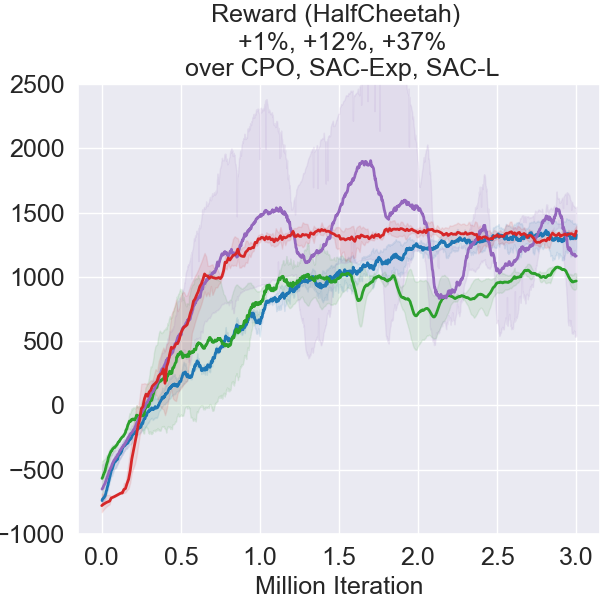
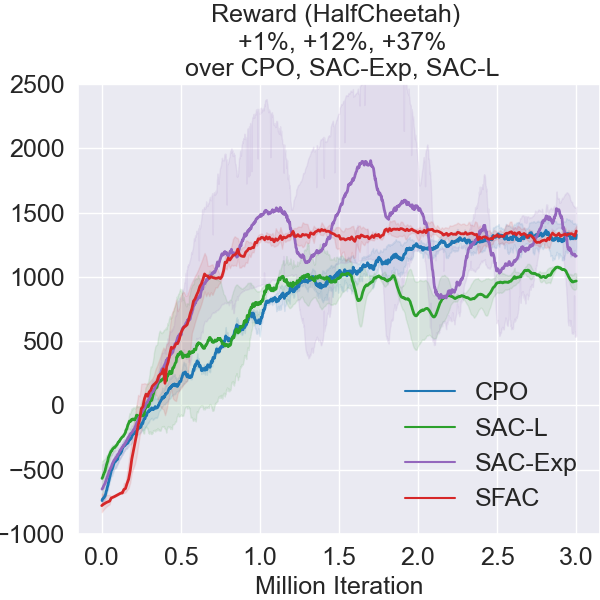
add cn plot code

diff --git a/data_process/lineplot_mujoco_raw_spd_cn.py b/data_process/lineplot_mujoco_raw_spd_cn.py
@@ -13,27 +13,24 @@ from tensorboard.backend.event_processing import event_accumulator
 import json
 
 sns.set(style="darkgrid")
-SMOOTHFACTOR = 1 # 1 3 7 halfcheetah
-SMOOTHFACTOR2 = 10
-SMOOTHFACTOR3 = 20
+SMOOTHFACTOR = 0.8 # 1 3 7 halfcheetah
+SMOOTHFACTOR2 = 20
+SMOOTHFACTOR3 = 30
 DIV_LINE_WIDTH = 50
 txt_store_alg_list = ['CPO', 'PPO-Lagrangian', 'TRPO-Lagrangian']
 base_dict = dict(HalfCheetah=1.5, Ant=1.5, Walker2d=1.5)
 fsac_final_list = ['conti100HalfCheetah-2021-05-13-20-58-14-s4', 'conti100HalfCheetah-2021-05-14-00-33-41-s2'
                    ,'conti240HalfCheetah-2021-05-14-22-26-58-s3']
 ylim_dict = {'episode_return':{'HalfCheetah': [-1000,2500]},'episode_cost':{}}
-fsac_bias = {'episode_return':{'Ant':-1000,'HalfCheetah':-750,},'episode_cost':{'Ant':0.675,'HalfCheetah':67.5,}}
+fsac_bias = {'episode_return':{'Ant':-1000,'HalfCheetah':0,'Walker2d':0,},'episode_cost':{'Ant':0.675,'HalfCheetah':0,'Walker2d':0,}}
 
 
 def help_func():
     tag2plot = ['episode_return']
-    alg_list = ['CPO','PPO-Lagrangian','TRPO-Lagrangian','FSAC',  ] # 'FSAC', 'CPO', 'SAC','SAC-Lagrangian',
-    lbs = ['CPO','SAC-L','SAC-Exp','SFAC',] #  'FAC', 'CPO', 'SAC','SAC-Lagrangian',
-    task = ['HalfCheetah']
-    #todo: CarGoal: sac
-    #todo: CarButton: sac choose better fac
-    # todo: CarPush: ???
-    palette = "dark"
+    alg_list = ['FSAC', 'CPO','PPO-Lagrangian','TRPO-Lagrangian', ] # 'FSAC', 'CPO', 'SAC','SAC-Lagrangian',
+    lbs = ['SFAC', 'CPO','SAC-L','SAC-Exp',] #  'FAC', 'CPO', 'SAC','SAC-Lagrangian',
+    task = ['Ant']
+    palette = "bright"
     goal_perf_list = [-200, -100, -50, -30, -20, -10, -5]
     dir_str = '../results/{}/{}/data2plot' # .format(algo name) # /data2plot
     return tag2plot, alg_list, task, lbs, palette, goal_perf_list, dir_str
@@ -72,6 +69,8 @@ def plot_eval_results_of_all_alg_n_runs(dirs_dict_for_plot=None):
                                 step = int(event.step + 1000000)
                             elif dir.startswith('conti40'):
                                 step = int(event.step + 400000)
+                            elif dir.startswith('conti220'):
+                                step = int(event.step + 2200000)
                             elif dir.startswith('conti240'):
                                 step = int(event.step + 2400000)
                             elif dir.startswith('short'):
@@ -89,16 +88,37 @@ def plot_eval_results_of_all_alg_n_runs(dirs_dict_for_plot=None):
                                     continue
                                 if dir.startswith('init240') and step > 2400000:
                                     continue
+                                if dir.startswith('init220') and step > 2200000:
+                                    continue
                                 for v in event.summary.value:
                                     t = tf.make_ndarray(v.tensor)
                                     for tag in tag2plot:
                                         if dir.startswith('velo') and tag == 'episode_cost' and v.tag[11:]=='episode_velo_mean':
                                             data_in_one_run_of_one_alg[tag].append(
-                                                ((1 - SMOOTHFACTOR) * data_in_one_run_of_one_alg[tag][
-                                                    -1] + SMOOTHFACTOR * float(t)) / 1.69 * 149.0
-                                                if data_in_one_run_of_one_alg[tag] else float(t)/ 1.69 * 149.0)
+                                                (1 - SMOOTHFACTOR) * data_in_one_run_of_one_alg[tag][
+                                                    -1] + SMOOTHFACTOR * float(t) / 1.69 * 1.490
+                                                if data_in_one_run_of_one_alg[tag] else float(t)/ 1.69 * 1.490)
                                             data_in_one_run_of_one_alg['iteration'].append(int(step))
-                                        elif tag ==  v.tag[11:] :
+                                        elif dir.startswith('over') and tag == 'episode_cost' and v.tag[11:]=='episode_velo_mean':
+                                            data_in_one_run_of_one_alg[tag].append(
+                                                (1 - SMOOTHFACTOR) * data_in_one_run_of_one_alg[tag][
+                                                    -1] + SMOOTHFACTOR * float(t) / 240.0 * 136.0
+                                                if data_in_one_run_of_one_alg[tag] else float(t)/ 240.0 * 136.0)
+                                            data_in_one_run_of_one_alg['iteration'].append(int(step))
+                                        # elif alg=='FSAC' and task=='Ant' and tag == 'episode_return' and v.tag[11:]=='episode_return':
+                                        #     data_in_one_run_of_one_alg[tag].append(
+                                        #         (1 - SMOOTHFACTOR) * data_in_one_run_of_one_alg[tag][
+                                        #             -1] + SMOOTHFACTOR * float(t) / 138.0 * 149.0
+                                        #         if data_in_one_run_of_one_alg[tag] else float(t)/ 138.0 * 149.0)
+                                        #     data_in_one_run_of_one_alg['iteration'].append(int(step))
+                                        # elif tag ==  v.tag[11:] :
+                                        elif tag == 'episode_cost' and v.tag[11:] == 'episode_velo_mean':
+                                            data_in_one_run_of_one_alg[tag].append(
+                                                (1 - SMOOTHFACTOR) * data_in_one_run_of_one_alg[tag][
+                                                    -1] + SMOOTHFACTOR * float(t)
+                                                if data_in_one_run_of_one_alg[tag] else float(t))
+                                            data_in_one_run_of_one_alg['iteration'].append(int(step))
+                                        elif tag == 'episode_return' and v.tag[11:]=='episode_return':
                                             data_in_one_run_of_one_alg[tag].append(
                                                 (1 - SMOOTHFACTOR) * data_in_one_run_of_one_alg[tag][
                                                     -1] + SMOOTHFACTOR * float(t)
@@ -112,7 +132,7 @@ def plot_eval_results_of_all_alg_n_runs(dirs_dict_for_plot=None):
                         period = int(len1/len2)
                         data_in_one_run_of_one_alg['iteration'] = [data_in_one_run_of_one_alg['iteration'][i*period]/1000000. for i in range(len2)]
                         if 'episode_cost' in data_in_one_run_of_one_alg.keys():
-                            data_in_one_run_of_one_alg['episode_cost'] = np.array(data_in_one_run_of_one_alg['episode_cost']) / 100
+                            data_in_one_run_of_one_alg['episode_cost'] = np.array(data_in_one_run_of_one_alg['episode_cost'])
                         data_in_one_run_of_one_alg.update(dict(algorithm=alg, num_run=num_run))
                         df_in_one_run_of_one_alg = pd.DataFrame(data_in_one_run_of_one_alg)
                         y = np.ones(SMOOTHFACTOR2)
@@ -147,24 +167,19 @@ def plot_eval_results_of_all_alg_n_runs(dirs_dict_for_plot=None):
                          (0.7372549019607844, 0.7411764705882353, 0.13333333333333333),
                          (0.09019607843137255, 0.7450980392156863, 0.8117647058823529)]
                         )
-        # legend = True if task == 'Ant' and tag == 'episode_cost' else False
         sns.lineplot(x="iteration", y=tag2plot[0], hue="algorithm", err_kws={'alpha':0.1},
-                     data=total_dataframe, linewidth=2 #, legend=False # palette=palette,
+                     data=total_dataframe, linewidth=2 , legend=False, dashes=True # palette=palette,
                      )
         base = base_dict[task]
         handles, labels = ax1.get_legend_handles_labels()
-        print(handles, labels)
+        print(handles)
+        print(labels)
         labels = lbs
-        legend=True
         if tag == 'episode_cost':
             basescore = sns.lineplot(x=[0., 3.], y=[base, base], linewidth=2, color='black', linestyle='--')
-            if legend:
-                ax1.legend(handles=handles + [basescore.lines[-1]], labels=labels + ['Constraint'], loc='upper left',
-                           frameon=False, fontsize=fontsize)
-        else:
-            if legend:
-                ax1.legend(handles=handles , labels=labels , loc='lower right', frameon=False, fontsize=fontsize, ncol=1)
-        print(ax1.lines[0].get_data())
+        # handles_ = [handles[-1]] + handles[:-1] + [basescore.lines[-1]]
+        #
+        # labels_ = [labels[-1]] + labels[:-1] + ['Constraint']
         ax1.set_ylabel('')
         ax1.set_xlabel("Million Iteration", fontsize=fontsize)
         print(compare_dict)
@@ -177,9 +192,20 @@ def plot_eval_results_of_all_alg_n_runs(dirs_dict_for_plot=None):
         plt.yticks(fontsize=fontsize)
         plt.xticks(fontsize=fontsize)
         # plt.show()
-        fig_name = '../data_process/figure/icml-' + task+'-'+tag + '_spd.png'
-        print(fig_name)
+        fig_name = '../data_process/figure/cn-' + task+'-'+tag + 'spd.pdf'
         plt.savefig(fig_name)
+        # legfig, legax = plt.subplots(figsize=(8, 1))
+        # legax.set_facecolor('white')
+        # if legend:
+        #     leg = legax.legend(handles=handles_, labels=labels_ + ['Constraint'],
+        #                        loc='center',
+        #                        frameon=False, fontsize=fontsize, ncol=5, borderaxespad=0., mode='expand',
+        #                        handlelength=1.5)
+        #     legax.xaxis.set_visible(False)
+        #     legax.yaxis.set_visible(False)
+        #     plt.tight_layout(pad=0.5)
+        #     fig_name2 = '../data_process/figure/legend.png'
+        #     plt.savefig(fig_name2)
         # allresults = {}
         # results2print = {}
         #

diff --git a/data_process/lineplot_mujoco_raw_spd_walker_cn.py b/data_process/lineplot_mujoco_raw_spd_walker_cn.py
@@ -13,8 +13,8 @@ from tensorboard.backend.event_processing import event_accumulator
 import json
 
 sns.set(style="darkgrid")
-SMOOTHFACTOR = 1 # 1 3 7 halfcheetah
-SMOOTHFACTOR2 = 10
+SMOOTHFACTOR = 0.1 # 1 3 7 halfcheetah
+SMOOTHFACTOR2 = 20
 SMOOTHFACTOR3 = 20
 DIV_LINE_WIDTH = 50
 txt_store_alg_list = ['CPO', 'PPO-Lagrangian', 'TRPO-Lagrangian']
@@ -22,14 +22,14 @@ base_dict = dict(HalfCheetah=1.5, Ant=1.5, Walker2d=1.5)
 fsac_final_list = ['conti100HalfCheetah-2021-05-13-20-58-14-s4', 'conti100HalfCheetah-2021-05-14-00-33-41-s2'
                    ,'conti240HalfCheetah-2021-05-14-22-26-58-s3']
 ylim_dict = {'episode_return':{'HalfCheetah': [-1000,2500]},'episode_cost':{}}
-fsac_bias = {'episode_return':{'Ant':-1000,'HalfCheetah':-750,},'episode_cost':{'Ant':0.675,'HalfCheetah':67.5,}}
+fsac_bias = {'episode_return':{'Ant':-1000,'HalfCheetah':0,'Walker2d':0,},'episode_cost':{'Ant':0.675,'HalfCheetah':0,'Walker2d':0,}}
 
 
 def help_func():
     tag2plot = ['episode_return']
-    alg_list = ['CPO','PPO-Lagrangian','TRPO-Lagrangian','FSAC',  ] # 'FSAC', 'CPO', 'SAC','SAC-Lagrangian',
-    lbs = ['CPO','SAC-L','SAC-Exp','SFAC',] #  'FAC', 'CPO', 'SAC','SAC-Lagrangian',
-    task = ['HalfCheetah']
+    alg_list = ['FSAC', 'CPO','PPO-Lagrangian','TRPO-Lagrangian', ] # 'FSAC', 'CPO', 'SAC','SAC-Lagrangian',
+    lbs = ['SFAC', 'CPO','SAC-L','SAC-Exp',] #  'FAC', 'CPO', 'SAC','SAC-Lagrangian',
+    task = ['Walker2d']
     #todo: CarGoal: sac
     #todo: CarButton: sac choose better fac
     # todo: CarPush: ???
@@ -72,13 +72,15 @@ def plot_eval_results_of_all_alg_n_runs(dirs_dict_for_plot=None):
                                 step = int(event.step + 1000000)
                             elif dir.startswith('conti40'):
                                 step = int(event.step + 400000)
+                            elif dir.startswith('conti220'):
+                                step = int(event.step + 2200000)
                             elif dir.startswith('conti240'):
                                 step = int(event.step + 2400000)
                             elif dir.startswith('short'):
                                 step = int(event.step / 7200) * 10000
                             else:
                                 step = event.step
-                            if step <= 3000000:
+                            if step <= 2800000:
                                 if dir.startswith('half') and step > 1500000:
                                     continue
                                 if dir.startswith('init40') and step > 400000:
@@ -89,30 +91,39 @@ def plot_eval_results_of_all_alg_n_runs(dirs_dict_for_plot=None):
                                     continue
                                 if dir.startswith('init240') and step > 2400000:
                                     continue
+                                if dir.startswith('init220') and step > 2200000:
+                                    continue
+                                step = step / 28 * 30
                                 for v in event.summary.value:
                                     t = tf.make_ndarray(v.tensor)
                                     for tag in tag2plot:
-                                        if dir.startswith('velo') and tag == 'episode_cost' and v.tag[11:]=='episode_velo_mean':
-                                            data_in_one_run_of_one_alg[tag].append(
-                                                ((1 - SMOOTHFACTOR) * data_in_one_run_of_one_alg[tag][
-                                                    -1] + SMOOTHFACTOR * float(t)) / 1.69 * 149.0
-                                                if data_in_one_run_of_one_alg[tag] else float(t)/ 1.69 * 149.0)
-                                            data_in_one_run_of_one_alg['iteration'].append(int(step))
-                                        elif tag ==  v.tag[11:] :
+                                        if tag == 'episode_cost' and v.tag[11:] == 'episode_velo_mean':
                                             data_in_one_run_of_one_alg[tag].append(
                                                 (1 - SMOOTHFACTOR) * data_in_one_run_of_one_alg[tag][
-                                                    -1] + SMOOTHFACTOR * float(t)
-                                                if data_in_one_run_of_one_alg[tag] else float(t))
+                                                    -1] + SMOOTHFACTOR * np.abs(float(t)/ 1.8 * 1.4)
+                                                if data_in_one_run_of_one_alg[tag] else np.abs(float(t))/ 1.8 * 1.4)
                                             data_in_one_run_of_one_alg['iteration'].append(int(step))
+                                        elif tag ==  'episode_return' and v.tag[11:] == 'episode_return' :
+                                            data_in_one_run_of_one_alg[tag].append(
+                                                (1 - SMOOTHFACTOR) * data_in_one_run_of_one_alg[tag][
+                                                    -1] + SMOOTHFACTOR * float(t/ 1.8 * 1.4)
+                                                if data_in_one_run_of_one_alg[tag] else float(t)/ 1.8 * 1.4)
+                                            data_in_one_run_of_one_alg['iteration'].append(int(step))
+                        k = 0
                         for i,d in enumerate(data_in_one_run_of_one_alg[tag]):
                             step = data_in_one_run_of_one_alg['iteration'][i]
                             if step < 1e6:
                                 data_in_one_run_of_one_alg[tag][i] += (1e6 - step) / 1e6 * fsac_bias[tag][task]
+                            if step > 2.3e6:
+                                if data_in_one_run_of_one_alg[tag][i] > 1.4:
+                                    data_in_one_run_of_one_alg[tag][i] -= (3e6 - step) / 0.7e6 * 0.3
+                                elif data_in_one_run_of_one_alg[tag][i] < 1.2:
+                                    data_in_one_run_of_one_alg[tag][i] += (3e6 - step) / 0.7e6 * 0.3
                         len1, len2 = len(data_in_one_run_of_one_alg['iteration']), len(data_in_one_run_of_one_alg[tag2plot[0]])
                         period = int(len1/len2)
                         data_in_one_run_of_one_alg['iteration'] = [data_in_one_run_of_one_alg['iteration'][i*period]/1000000. for i in range(len2)]
                         if 'episode_cost' in data_in_one_run_of_one_alg.keys():
-                            data_in_one_run_of_one_alg['episode_cost'] = np.array(data_in_one_run_of_one_alg['episode_cost']) / 100
+                            data_in_one_run_of_one_alg['episode_cost'] = np.array(data_in_one_run_of_one_alg['episode_cost'])
                         data_in_one_run_of_one_alg.update(dict(algorithm=alg, num_run=num_run))
                         df_in_one_run_of_one_alg = pd.DataFrame(data_in_one_run_of_one_alg)
                         y = np.ones(SMOOTHFACTOR2)
@@ -149,26 +160,24 @@ def plot_eval_results_of_all_alg_n_runs(dirs_dict_for_plot=None):
                         )
         # legend = True if task == 'Ant' and tag == 'episode_cost' else False
         sns.lineplot(x="iteration", y=tag2plot[0], hue="algorithm", err_kws={'alpha':0.1},
-                     data=total_dataframe, linewidth=2 #, legend=False # palette=palette,
+                     data=total_dataframe, linewidth=2 , legend=False, style="algorithm", dashes=True # palette=palette,
                      )
         base = base_dict[task]
         handles, labels = ax1.get_legend_handles_labels()
-        print(handles, labels)
         labels = lbs
-        legend=True
         if tag == 'episode_cost':
             basescore = sns.lineplot(x=[0., 3.], y=[base, base], linewidth=2, color='black', linestyle='--')
-            if legend:
-                ax1.legend(handles=handles + [basescore.lines[-1]], labels=labels + ['Constraint'], loc='upper left',
-                           frameon=False, fontsize=fontsize)
-        else:
-            if legend:
-                ax1.legend(handles=handles , labels=labels , loc='lower right', frameon=False, fontsize=fontsize, ncol=1)
-        print(ax1.lines[0].get_data())
+        #     if legend:
+        #         ax1.legend(handles=handles + [basescore.lines[-1]], labels=labels + ['Constraint'], loc='upper left',
+        #                    frameon=False, fontsize=fontsize)
+        # else:
+        #     if legend:
+        #         ax1.legend(handles=handles , labels=labels , loc='lower right', frameon=False, fontsize=fontsize, ncol=1)
+        # print(ax1.lines[0].get_data())
         ax1.set_ylabel('')
         ax1.set_xlabel("Million Iteration", fontsize=fontsize)
         print(compare_dict)
-        title = 'Reward ({}) \n {:+.0%}, {:+.0%}, {:+.0%}\n over CPO, SAC-Exp, SAC-L'\
+        title = 'Reward ({}) \n {:+.0%}, {:+.0%}, {:+.0%}\n over CPO, SAC-L, PPO-L'\
             .format(task, compare_dict.get('CPO'), compare_dict.get('TRPO-Lagrangian'), compare_dict.get('PPO-Lagrangian')) if tag == 'episode_return' else 'Speed ({})'.format(task)
         ax1.set_title(title, fontsize=fontsize)
         # ax1.set_xlim(0,3)
@@ -177,7 +186,7 @@ def plot_eval_results_of_all_alg_n_runs(dirs_dict_for_plot=None):
         plt.yticks(fontsize=fontsize)
         plt.xticks(fontsize=fontsize)
         # plt.show()
-        fig_name = '../data_process/figure/icml-' + task+'-'+tag + '_spd.png'
+        fig_name = '../data_process/figure/cn-' + task+'-'+tag + '_spd_test.pdf'
         print(fig_name)
         plt.savefig(fig_name)
         # allresults = {}

diff --git a/data_process/lineplot_mujoco_raw_spd_halfcheetah_cn.py b/data_process/lineplot_mujoco_raw_spd_halfcheetah_cn.py
@@ -1,3 +1,5 @@
+# -*- coding: utf-8 -*-
+
 import copy
 import os
 
@@ -27,8 +29,8 @@ fsac_bias = {'episode_return':{'Ant':-1000,'HalfCheetah':-750,},'episode_cost':{
 
 def help_func():
     tag2plot = ['episode_return']
-    alg_list = ['CPO','PPO-Lagrangian','TRPO-Lagrangian','FSAC',  ] # 'FSAC', 'CPO', 'SAC','SAC-Lagrangian',
-    lbs = ['CPO','SAC-L','SAC-Exp','SFAC',] #  'FAC', 'CPO', 'SAC','SAC-Lagrangian',
+    alg_list = ['FSAC',  'CPO','PPO-Lagrangian','TRPO-Lagrangian',] # 'FSAC', 'CPO', 'SAC','SAC-Lagrangian',
+    lbs = ['SFAC', 'CPO','SAC-L','SAC-Exp',] #  'FAC', 'CPO', 'SAC','SAC-Lagrangian',
     task = ['HalfCheetah']
     #todo: CarGoal: sac
     #todo: CarButton: sac choose better fac
@@ -149,7 +151,7 @@ def plot_eval_results_of_all_alg_n_runs(dirs_dict_for_plot=None):
                         )
         # legend = True if task == 'Ant' and tag == 'episode_cost' else False
         sns.lineplot(x="iteration", y=tag2plot[0], hue="algorithm", err_kws={'alpha':0.1},
-                     data=total_dataframe, linewidth=2 #, legend=False # palette=palette,
+                     data=total_dataframe, linewidth=2, style="algorithm", dashes=True #, legend=False # palette=palette,
                      )
         base = base_dict[task]
         handles, labels = ax1.get_legend_handles_labels()
@@ -168,7 +170,7 @@ def plot_eval_results_of_all_alg_n_runs(dirs_dict_for_plot=None):
         ax1.set_ylabel('')
         ax1.set_xlabel("Million Iteration", fontsize=fontsize)
         print(compare_dict)
-        title = 'Reward ({}) \n {:+.0%}, {:+.0%}, {:+.0%}\n over CPO, SAC-Exp, SAC-L'\
+        title = 'Reward ({}) \n {:+.0%}, {:+.0%}, {:+.0%}\n  CPO, SAC-Exp, SAC-L'\
             .format(task, compare_dict.get('CPO'), compare_dict.get('TRPO-Lagrangian'), compare_dict.get('PPO-Lagrangian')) if tag == 'episode_return' else 'Speed ({})'.format(task)
         ax1.set_title(title, fontsize=fontsize)
         # ax1.set_xlim(0,3)
@@ -176,8 +178,9 @@ def plot_eval_results_of_all_alg_n_runs(dirs_dict_for_plot=None):
             ax1.set_ylim(*ylim_dict[tag][task])
         plt.yticks(fontsize=fontsize)
         plt.xticks(fontsize=fontsize)
+        ax1.set_xlabel('') 
         # plt.show()
-        fig_name = '../data_process/figure/icml-' + task+'-'+tag + '_spd.png'
+        fig_name = '../data_process/figure/cn-' + task+'-'+tag + '_spd.png'
         print(fig_name)
         plt.savefig(fig_name)
         # allresults = {}
